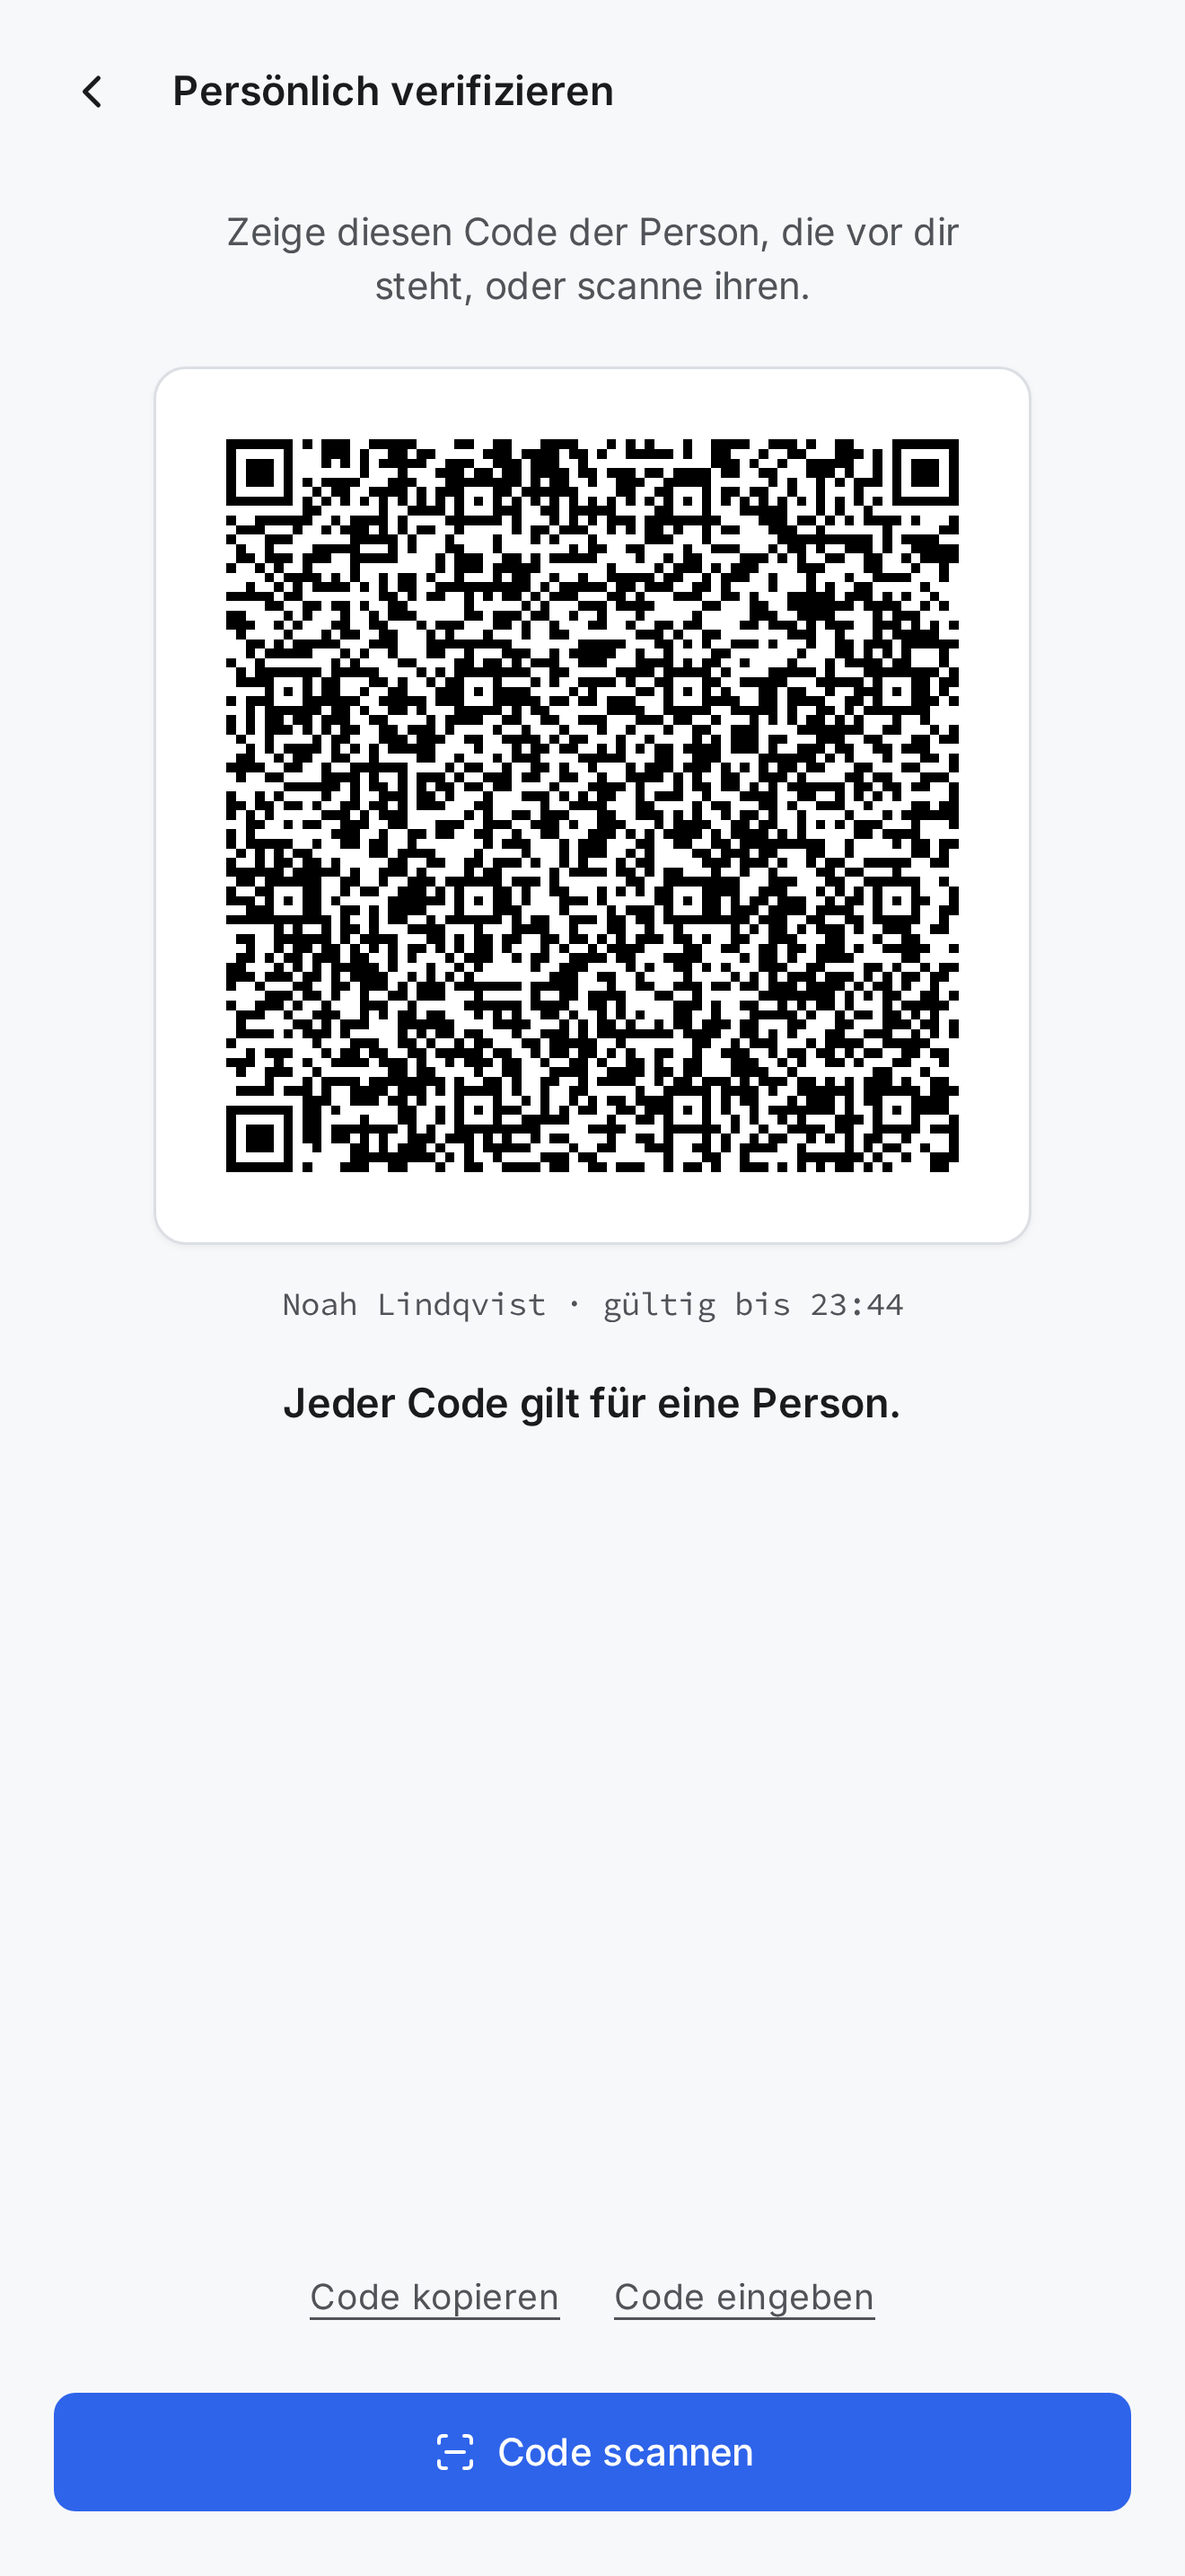
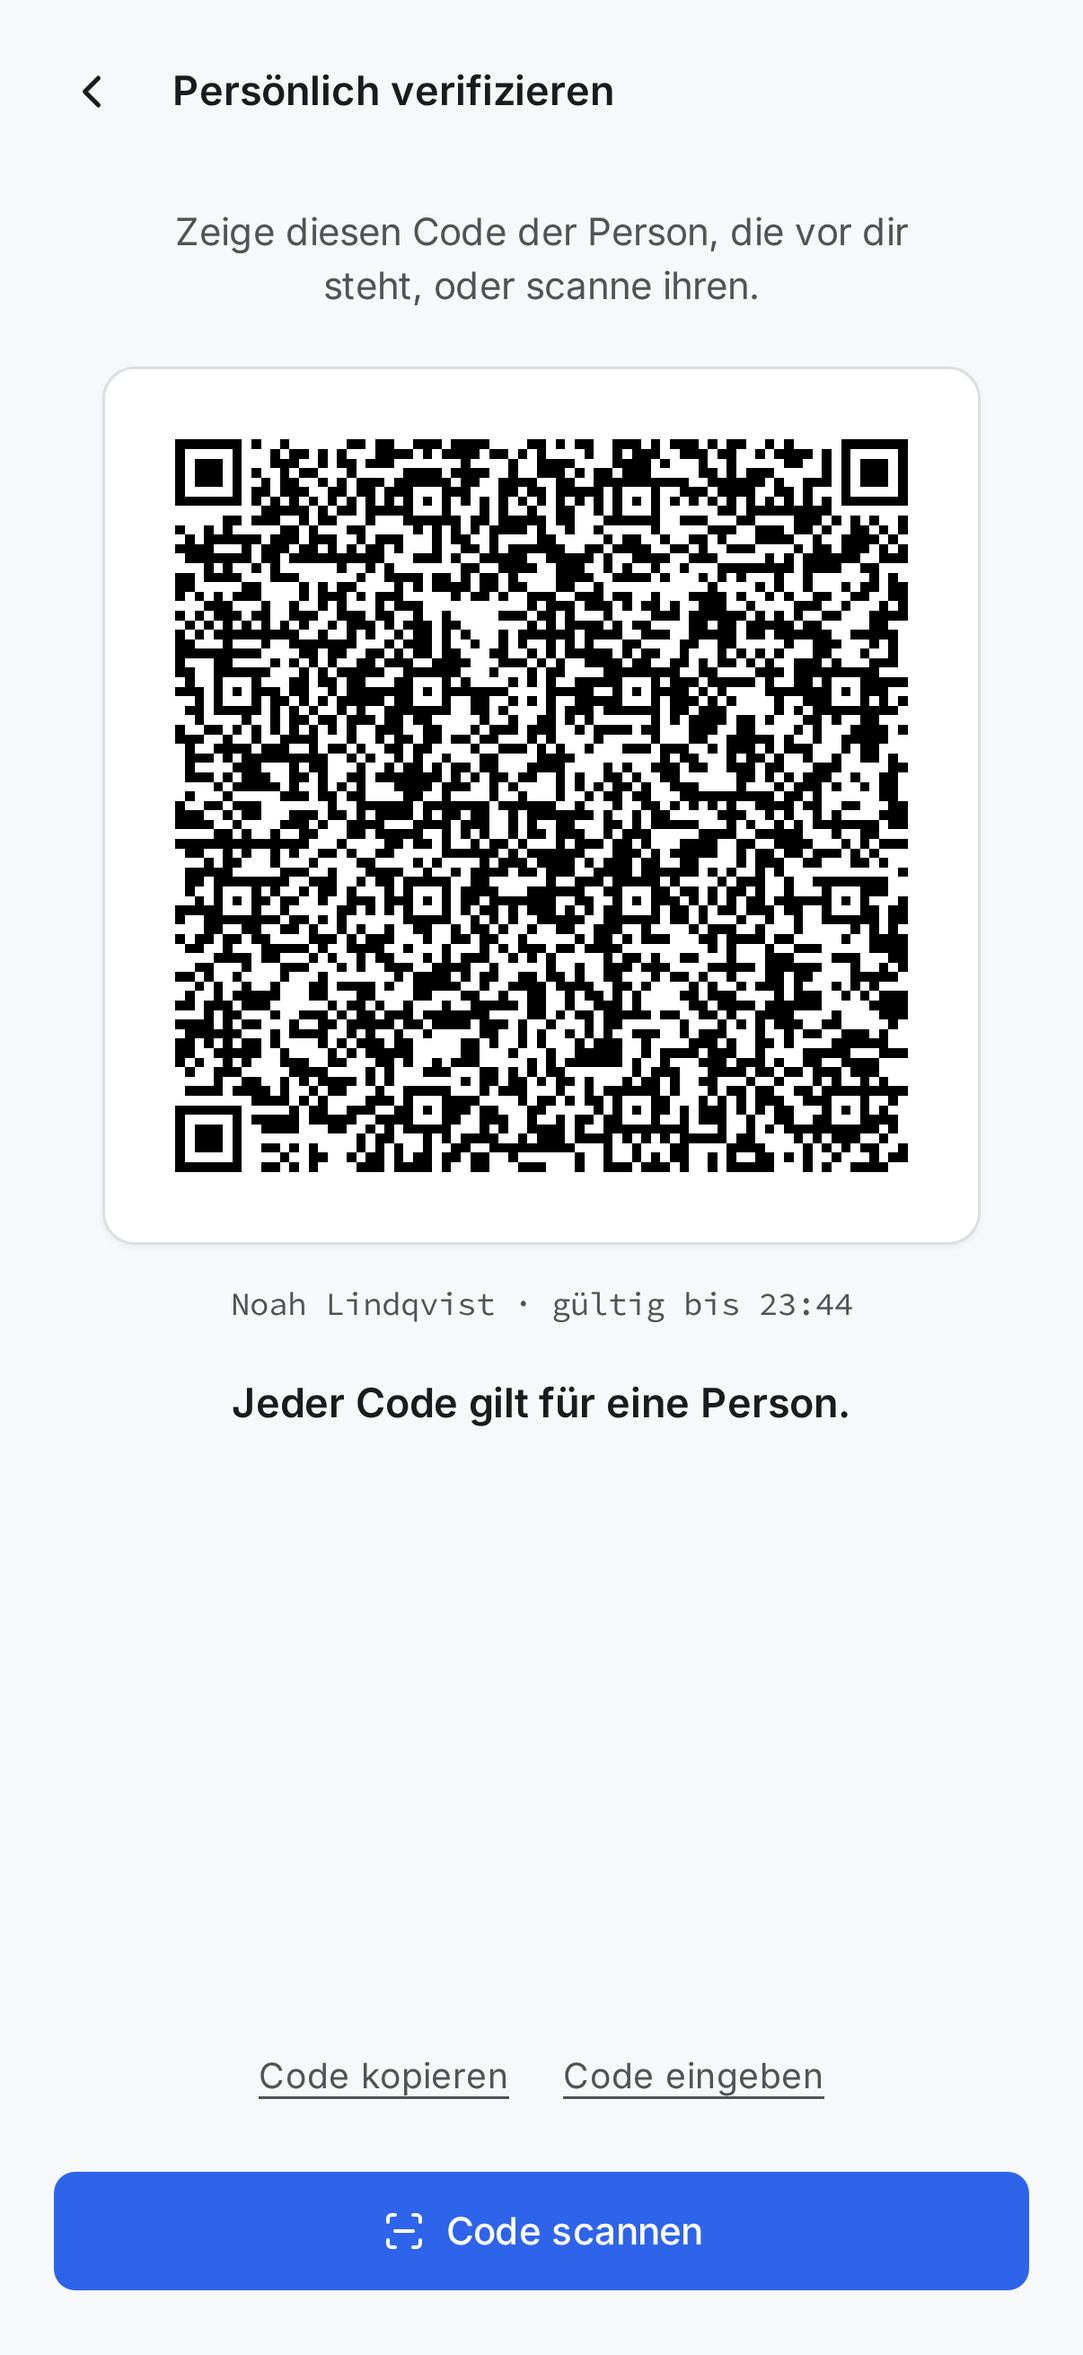
wot-v3: App Store screenshots at 1206×2622, the size App Store Connect asks for

diff --git a/apps/wot-v3/e2e/appstore-screenshots.spec.ts b/apps/wot-v3/e2e/appstore-screenshots.spec.ts
@@ -1,14 +1,14 @@
 // App Store screenshots of Web of Trust (store-assets/appstore/README.md): the workbench page (the real
 // app on the real library, the VTI mediator double, offline), five people who met and trusted each
 // other, so the graph and the shared contacts show a real network. German, light. One phone is shot
-// in its own frame of 440×956 CSS pixels; with device scale factor 3 every PNG is 1320×2868 (iPhone
-// 6.9"). Runs only with WOT_APPSTORE_DIR (the output folder).
+// in its own frame of 402×874 CSS pixels; with device scale factor 3 every PNG is 1206×2622 (iPhone
+// 6.3", the size App Store Connect asks for). Runs only with WOT_APPSTORE_DIR (the output folder).
 import { expect, test, type FrameLocator, type Page } from '@playwright/test'
 
 test.skip(!process.env.WOT_APPSTORE_DIR, 'App Store screenshots only with WOT_APPSTORE_DIR')
 
 const OUT = process.env.WOT_APPSTORE_DIR ?? ''
-const FRAME = { width: 440, height: 956 }
+const FRAME = { width: 402, height: 874 }
 const PEOPLE = 'jonas,noah,lea,mara,sam'
 const MET = 'jonas-noah,jonas-lea,jonas-mara,jonas-sam,noah-lea,lea-mara,mara-sam,noah-sam'
 

diff --git a/apps/wot-v3/playwright.screenshots.config.ts b/apps/wot-v3/playwright.screenshots.config.ts
@@ -3,7 +3,7 @@ import { defineConfig } from '@playwright/test'
 // Store screenshots only (e2e/store-screenshots.spec.ts for Play, store-assets/screenshots/README.md;
 // e2e/appstore-screenshots.spec.ts for the App Store, store-assets/appstore/README.md): the built
 // harness on its own port, so it never collides with the screenshot tests on 5273. Device scale
-// factor 3: Play frames of 360×780 CSS pixels give 1080×2340, App Store frames of 440×956 1320×2868.
+// factor 3: Play frames of 360×780 CSS pixels give 1080×2340, App Store frames of 402×874 1206×2622.
 const executablePath = process.env.WOT_CHROME_PATH
 const port = Number(process.env.WOT_SHOTS_PORT ?? 5291)
 

diff --git a/apps/wot-v3/store-assets/appstore/README.md b/apps/wot-v3/store-assets/appstore/README.md
@@ -1,6 +1,6 @@
 # App Store screenshots
 
-Six iPhone screenshots of Web of Trust 3, German, light theme, 1320×2868 PNG (iPhone 6.9", the size App Store Connect scales down for the smaller iPhones).
+Six iPhone screenshots of Web of Trust 3, German, light theme, 1206×2622 PNG (iPhone 6.3", "iPhone with Dynamic Island, medium display" in App Store Connect).
 
 | File | Screen |
 |---|---|
@@ -13,7 +13,7 @@ Six iPhone screenshots of Web of Trust 3, German, light theme, 1320×2868 PNG (i
 
 ## How they are taken
 
-`e2e/appstore-screenshots.spec.ts` runs the workbench page (the real app on the real library, the VTI mediator double in the page, offline): five fictional people (Jonas, Noah, Lea, Mara, Sam) who met before the page opened, everyone trusts everyone they met except Jonas → Sam, then the clock runs until the shared contacts have arrived. Each screen is a phone of its own, 440×956 CSS pixels at device scale factor 3, laid over the workbench. Language `lang=de`, time zone `tz=Europe/Berlin`.
+`e2e/appstore-screenshots.spec.ts` runs the workbench page (the real app on the real library, the VTI mediator double in the page, offline): five fictional people (Jonas, Noah, Lea, Mara, Sam) who met before the page opened, everyone trusts everyone they met except Jonas → Sam, then the clock runs until the shared contacts have arrived. Each screen is a phone of its own, 402×874 CSS pixels at device scale factor 3, laid over the workbench. Language `lang=de`, time zone `tz=Europe/Berlin`.
 
 From `apps/wot-v3`:
 
